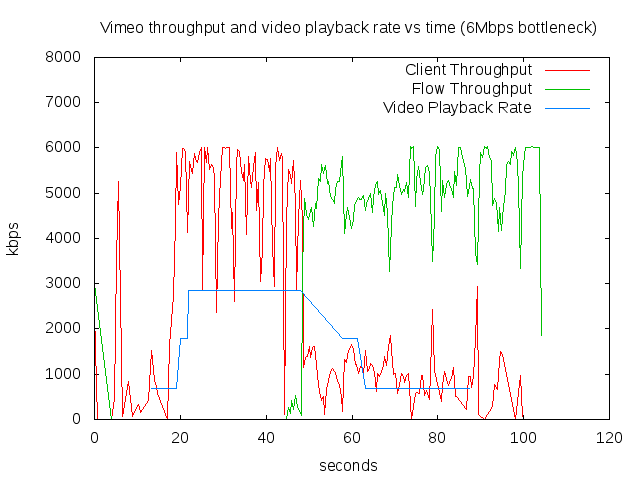
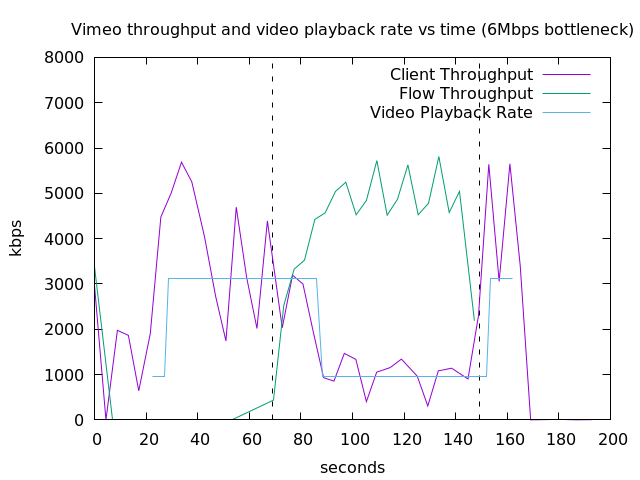
vimeo

diff --git a/mahimahi/filters/convert_mahimahi_to_graph_input.py b/mahimahi/filters/convert_mahimahi_to_graph_input.py
@@ -2,7 +2,7 @@
 import sys
 f = open(sys.argv[1])
 
-MIN_DELTA=2000
+MIN_DELTA=4000
 
 previous_time = 0
 num_bytes = 0
